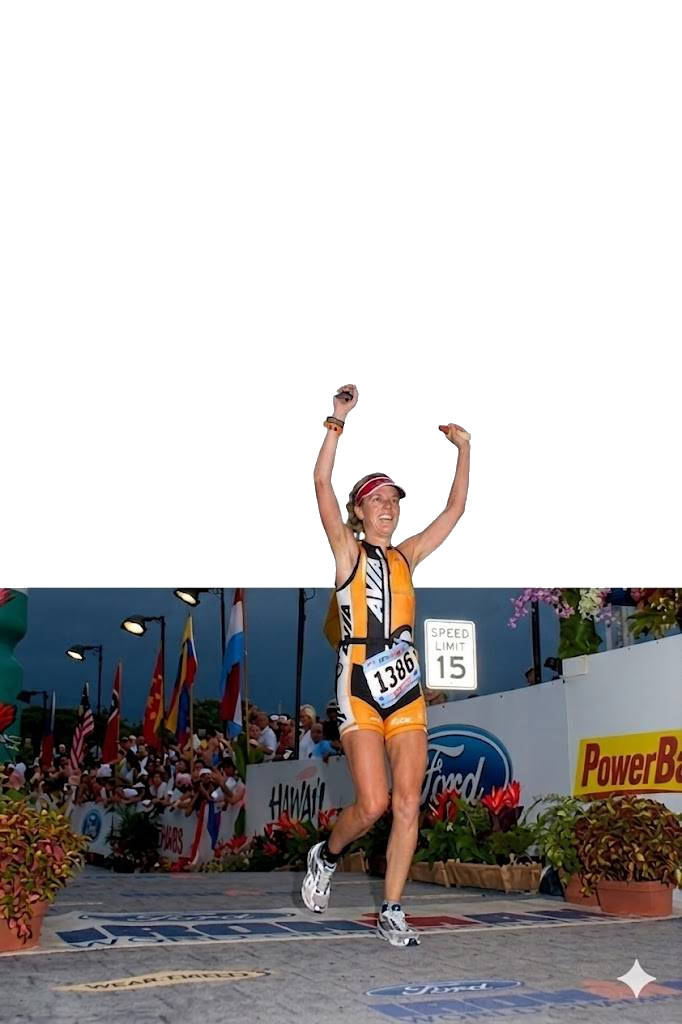
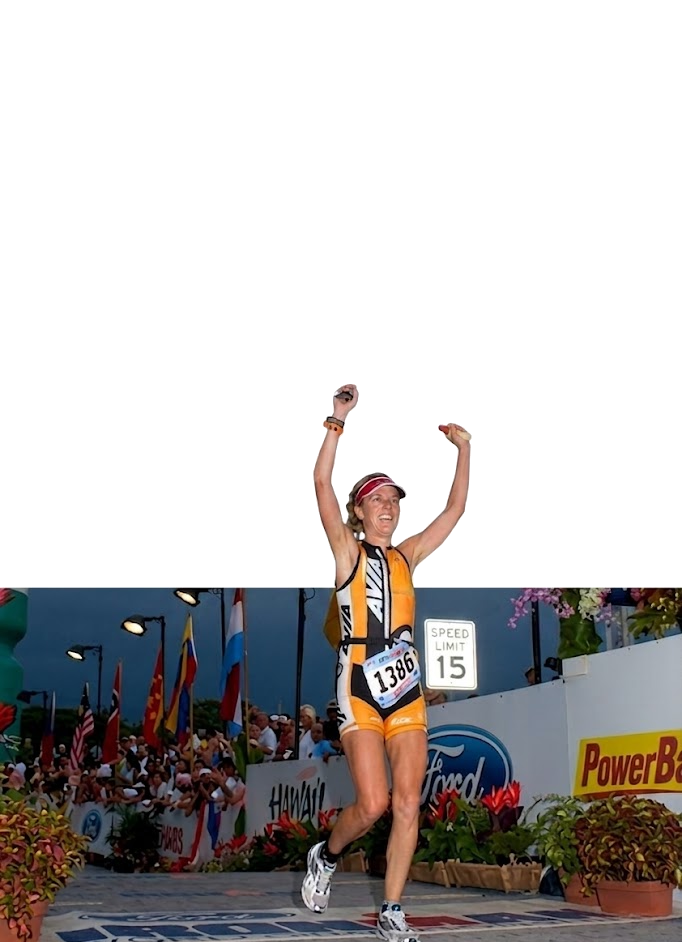
Hero: left-flush athlete, title behind her, watermark cropped, intro to lower-right

diff --git a/src/index.css b/src/index.css
@@ -146,9 +146,9 @@ section, footer {
 }
 
 /* ── Champion hero (homepage) ──────────────────────────────────────────────
-   One continuous navy field. A large statement across the top, Wendy on the
-   right (the cut-off white sky was removed from the PNG so she sits straight on
-   the navy), and a short intro plus CTA in the open bottom-left. */
+   One continuous navy field. A large statement across the top sits behind
+   Wendy, who is flush to the left edge and tall enough that her raised hands
+   meet the title line. Short intro plus CTA in the open lower-right. */
 .champ-hero {
   position: relative;
   min-height: 100svh;
@@ -158,16 +158,11 @@ section, footer {
 }
 .champ-hero__title {
   position: absolute;
-  top: 0; left: 0; right: 0;
-  height: 58%;
+  top: clamp(90px, 22vh, 270px);
+  left: 0; right: 0;
   z-index: 1;
   margin: 0;
-  display: flex;
-  flex-direction: column;
-  justify-content: center;
-  align-items: center;
   text-align: center;
-  padding: clamp(80px, 11vh, 120px) 16px 0;
   font-family: 'Inter', system-ui, sans-serif;
   font-weight: 800;
   text-transform: uppercase;
@@ -176,29 +171,29 @@ section, footer {
 }
 .champ-hero__title span {
   display: block;
-  font-size: clamp(2.4rem, 8.2vw, 7rem);
+  font-size: clamp(2.4rem, 8vw, 7rem);
   color: #F5F1E9;
   white-space: nowrap;
 }
 .champ-hero__photo {
   position: absolute;
+  left: 0;
   bottom: 0;
-  right: clamp(0px, 4vw, 80px);
-  left: auto;
-  height: min(84svh, 880px);
+  height: 115svh;
   width: auto;
   z-index: 2;
   pointer-events: none;
-  /* soften the photo's left/right edges into the navy */
-  -webkit-mask-image: linear-gradient(to right, transparent, #000 9%, #000 91%, transparent);
-          mask-image: linear-gradient(to right, transparent, #000 9%, #000 91%, transparent);
+  /* flush on the left; fade only the far-right scene edge into the navy */
+  -webkit-mask-image: linear-gradient(to right, #000 80%, transparent 99%);
+          mask-image: linear-gradient(to right, #000 80%, transparent 99%);
 }
 .champ-hero__intro {
   position: absolute;
-  bottom: clamp(40px, 8vh, 84px);
-  left: clamp(24px, 5vw, 80px);
+  right: clamp(24px, 5vw, 80px);
+  bottom: clamp(56px, 13vh, 150px);
   z-index: 3;
-  max-width: 430px;
+  max-width: 400px;
+  text-align: left;
 }
 .champ-hero__intro p {
   margin: 0 0 26px;
@@ -240,14 +235,16 @@ section, footer {
     align-items: center;
     padding: 96px 24px 56px;
   }
-  .champ-hero__title { position: static; height: auto; padding: 0; }
+  .champ-hero__title { position: static; padding: 0; }
   .champ-hero__title span { font-size: clamp(2rem, 9vw, 3rem); }
   .champ-hero__photo {
-    position: static; right: auto;
-    height: auto; width: auto; max-height: 46svh;
+    position: static;
+    height: auto; width: auto; max-height: 50svh;
     margin: 12px auto 0;
+    -webkit-mask-image: none; mask-image: none;
   }
   .champ-hero__intro {
-    position: static; max-width: 520px; margin-top: 22px;
+    position: static; max-width: 520px; margin-top: 22px; text-align: center;
   }
+  .champ-hero__actions { justify-content: center; }
 }
